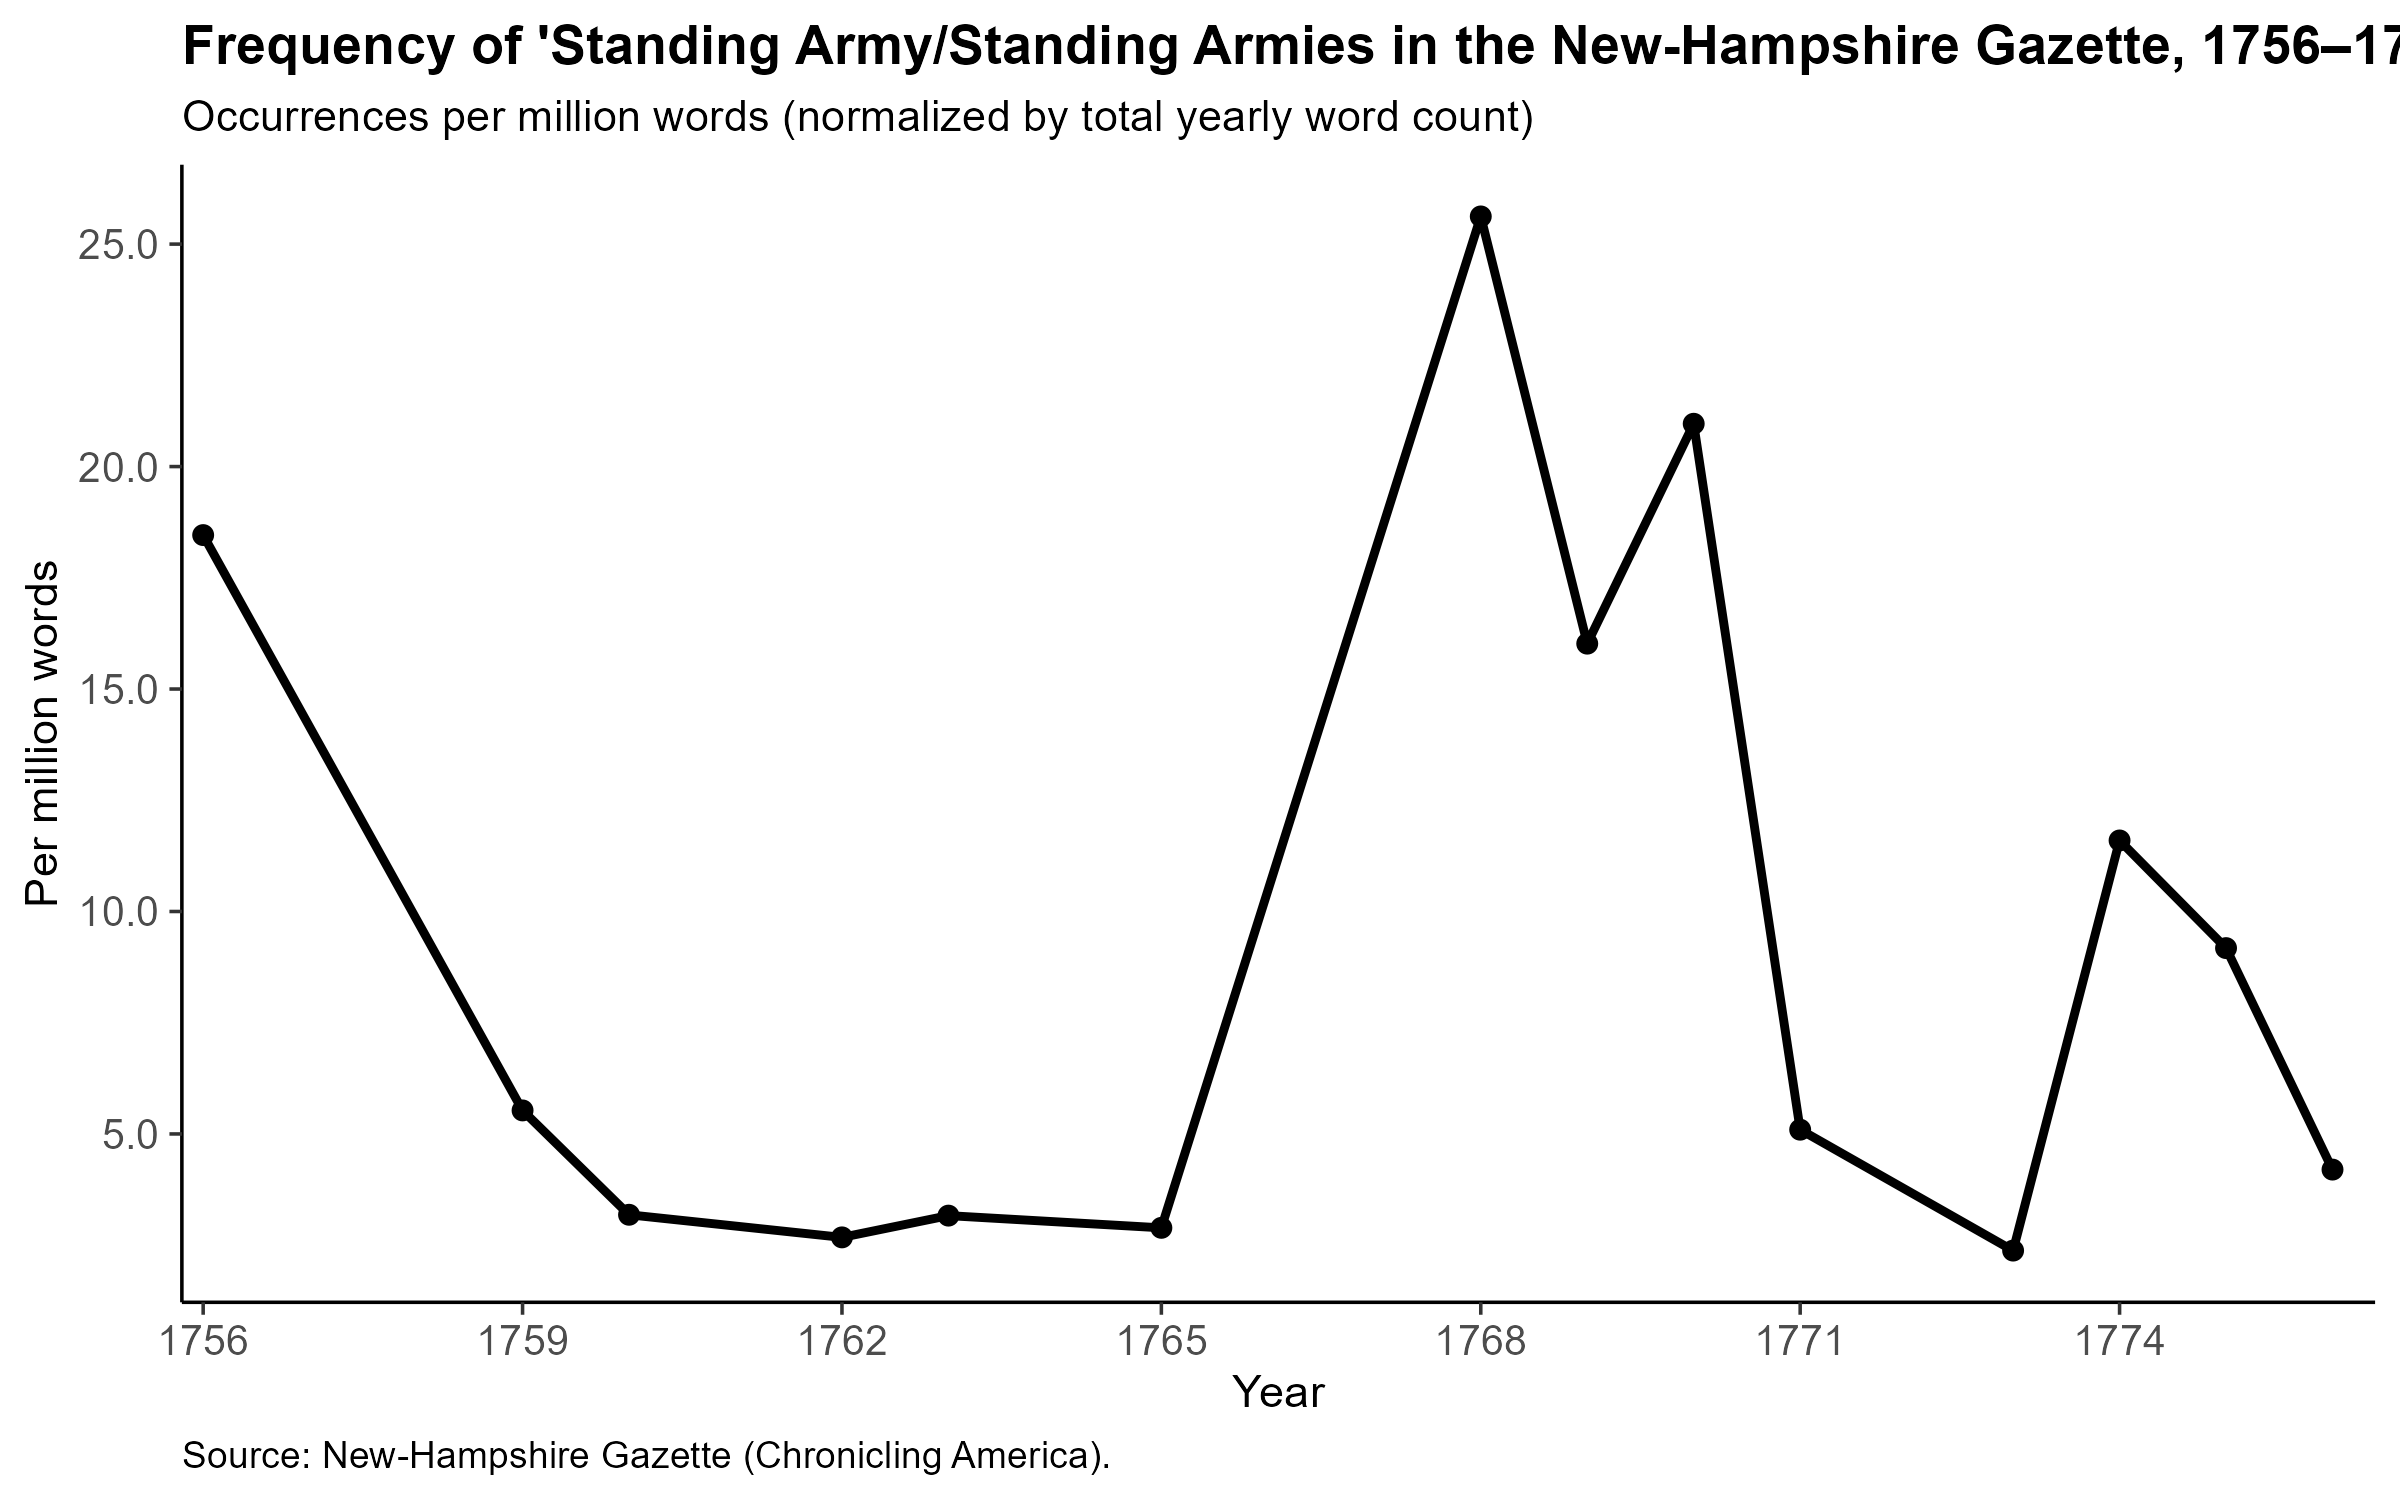
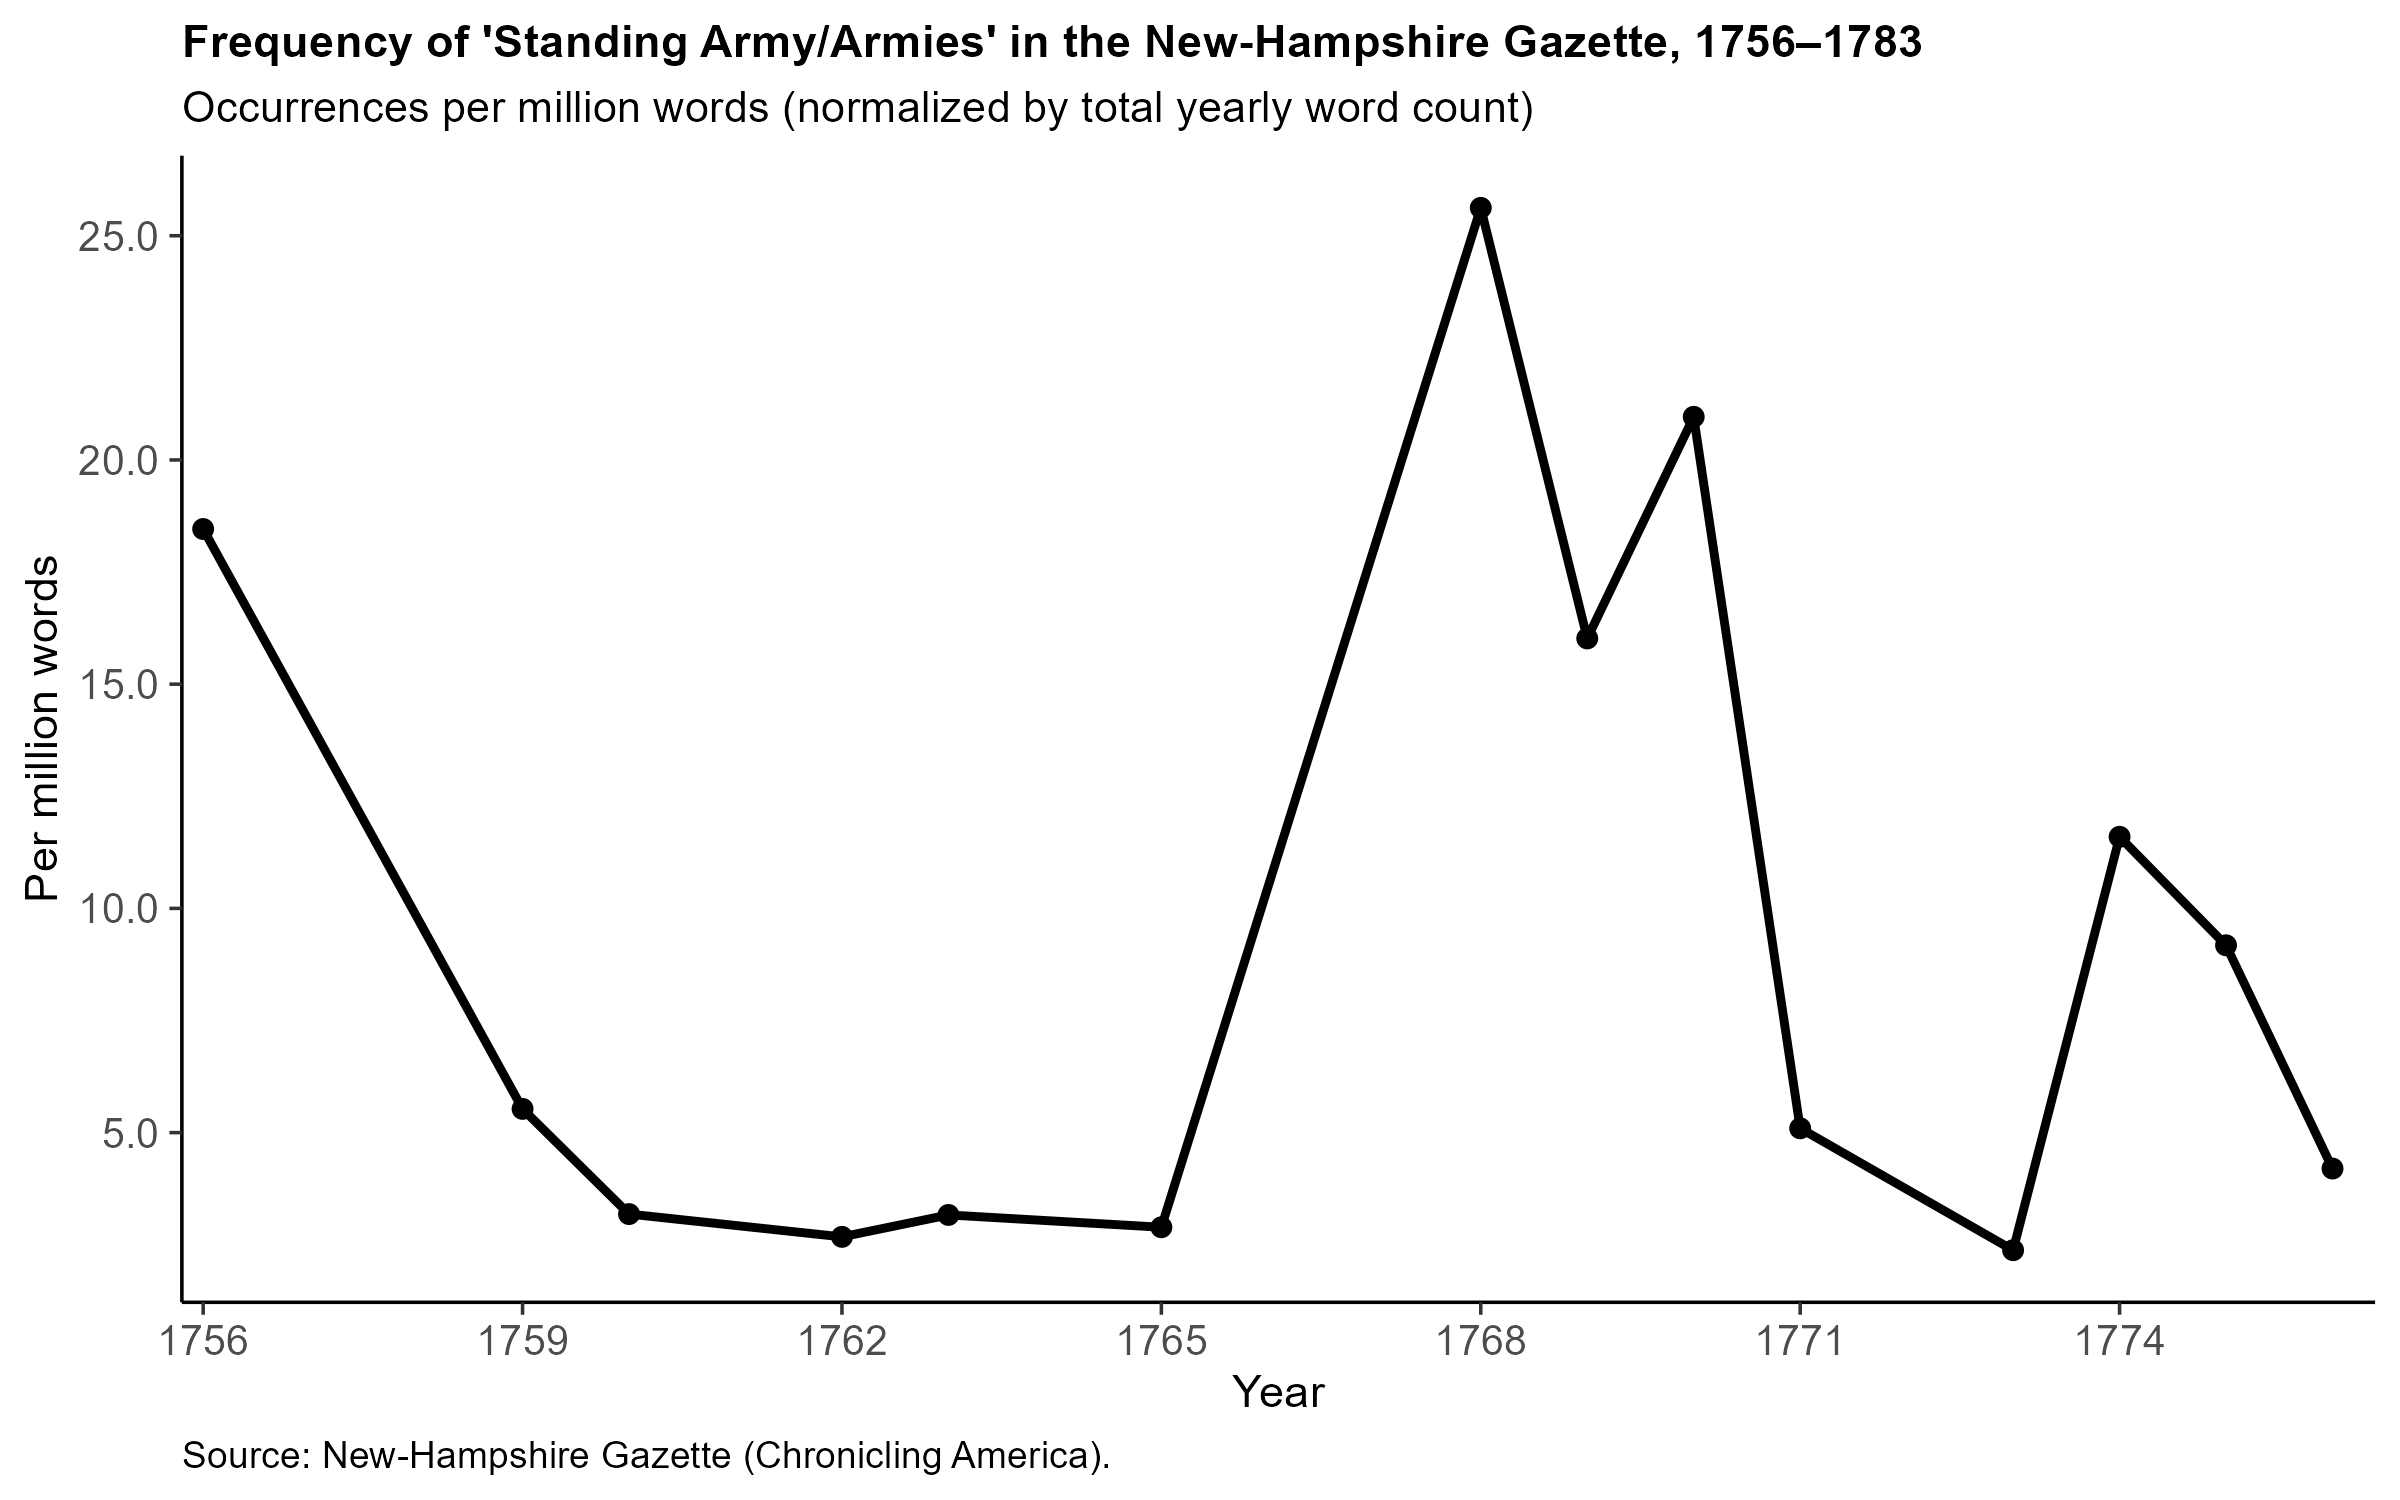
final touches, tweaked images

diff --git a/readme.md b/readme.md
@@ -90,7 +90,7 @@ Expected core columns include:
 
 The code assumes that dates are formatted so the year and month can be extracted with substring operations.
 
-## Expected File / Folder Layout
+## Folder Layout
 
 A typical layout for the repository is:
 
